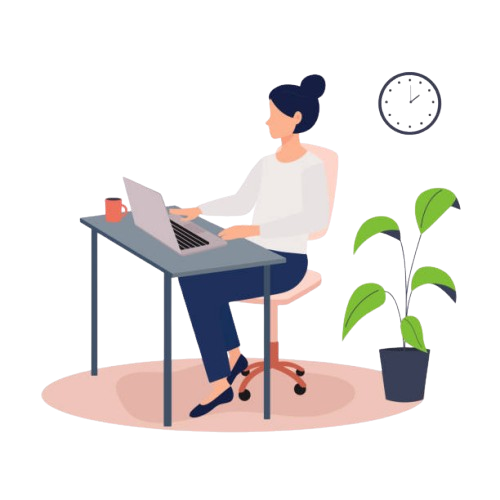
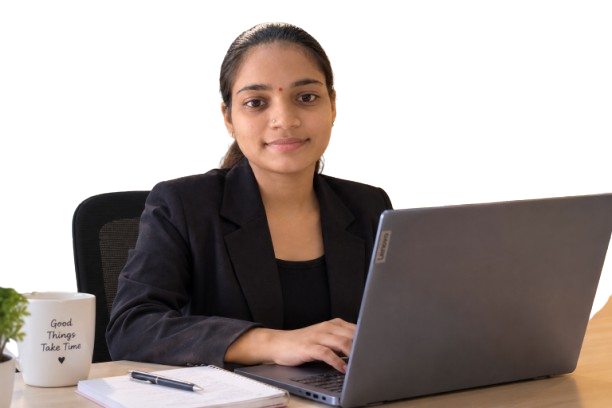
website

diff --git a/src/App.jsx b/src/App.jsx
@@ -121,7 +121,7 @@ function App() {
             <div className="absolute w-[220px] h-[220px] sm:w-[280px] sm:h-[280px] md:w-[340px] md:h-[340px] lg:w-[410px] lg:h-[410px] rounded-full border border-purple-500/30"></div>
 
             <img
-              className="relative z-10 w-[220px] sm:w-[280px] md:w-[350px] lg:w-[430px] hover:scale-105 duration-500"
+              className="relative z-10 h-[550px] w-[100px] sm:w-[280px] md:w-[350px] lg:w-[500px] hover:scale-105 duration-500"
               src={home}
               alt="Shruti - Full Stack Web Developer"
             />
